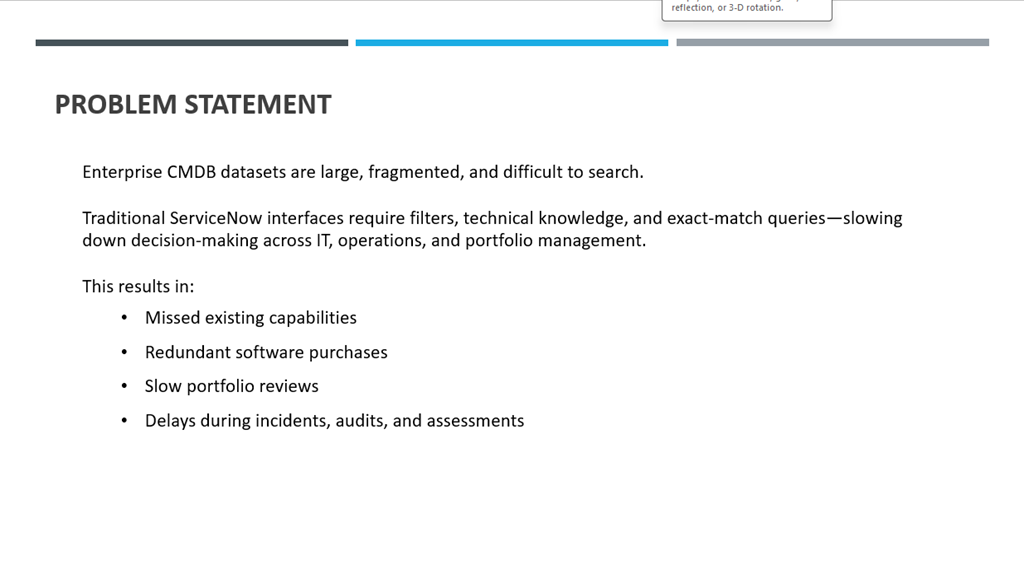
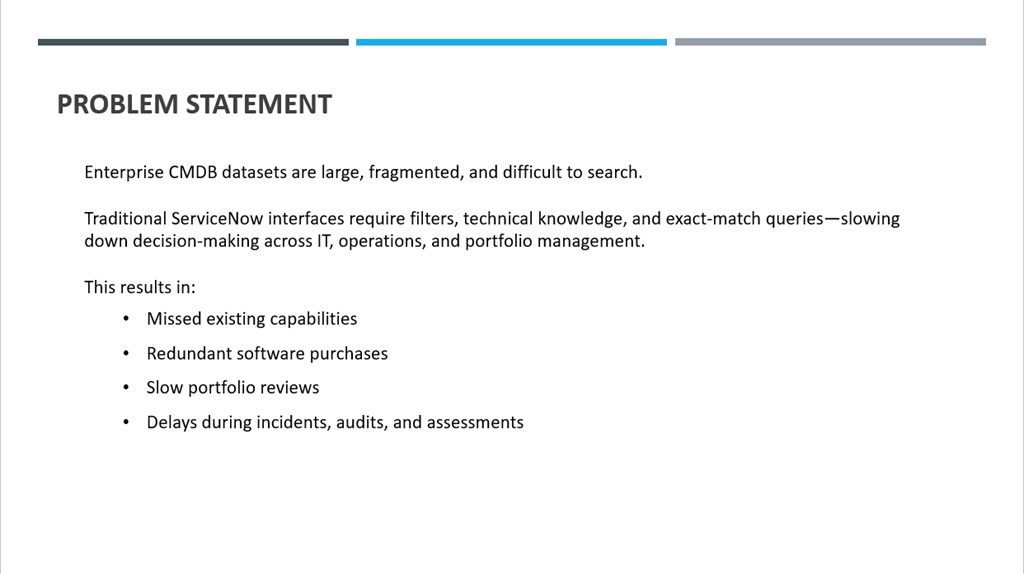
Updated product content. Screen shot of Semantic need an update

diff --git a/products.html b/products.html
@@ -198,7 +198,7 @@
         <ul>
           <li>Actionable recommendations with clear rationale</li>
           <li>Stakeholder-specific reports (PDF, CSV)</li>
-          <li>Interactive dashboards for insights and decision-making (planned)/li>
+          <li>Interactive dashboards for insights and decision-making (planned)</li>
         </ul>
       </div>
 
